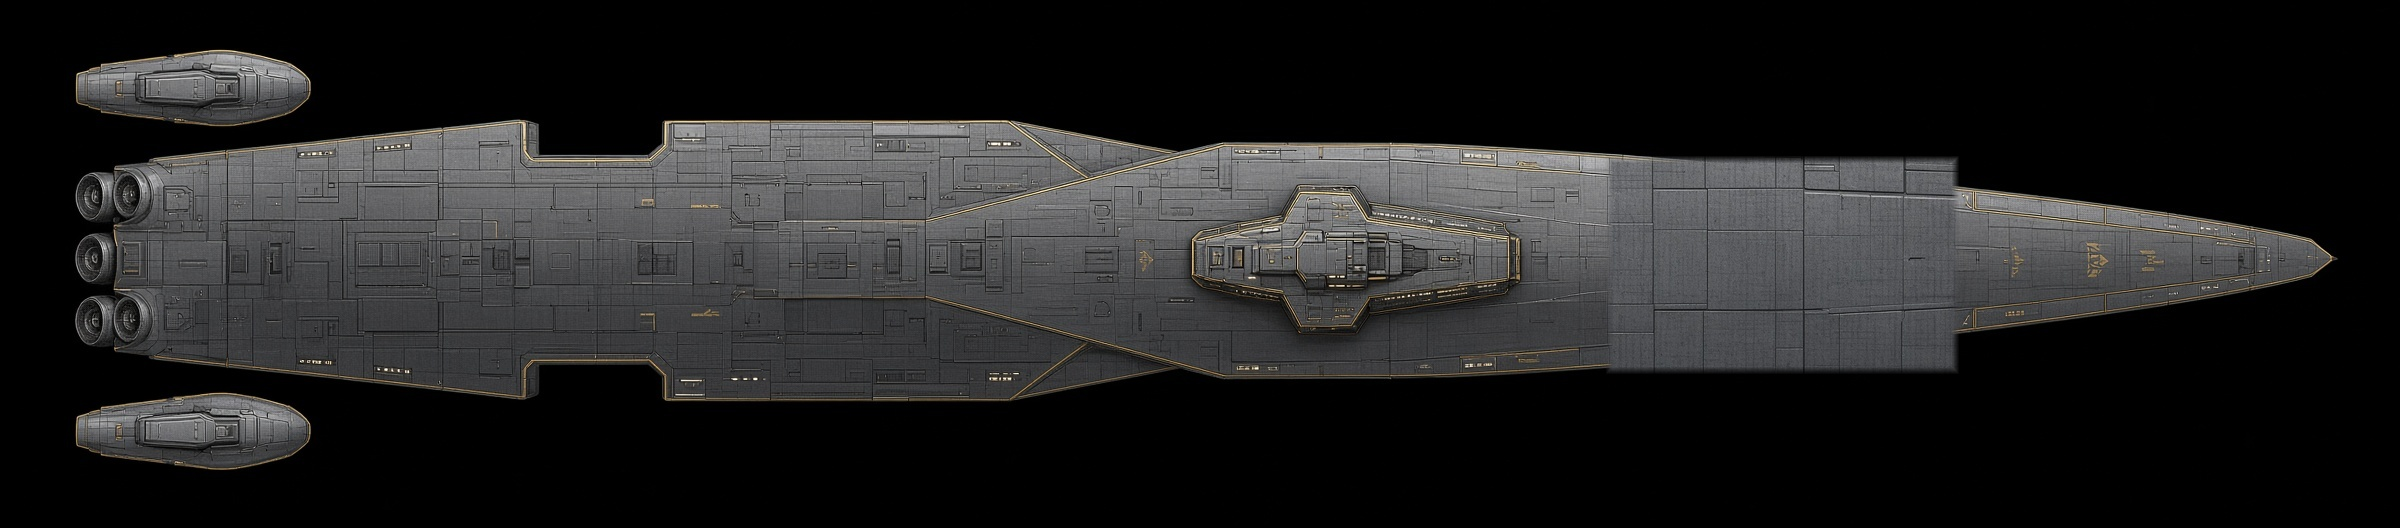
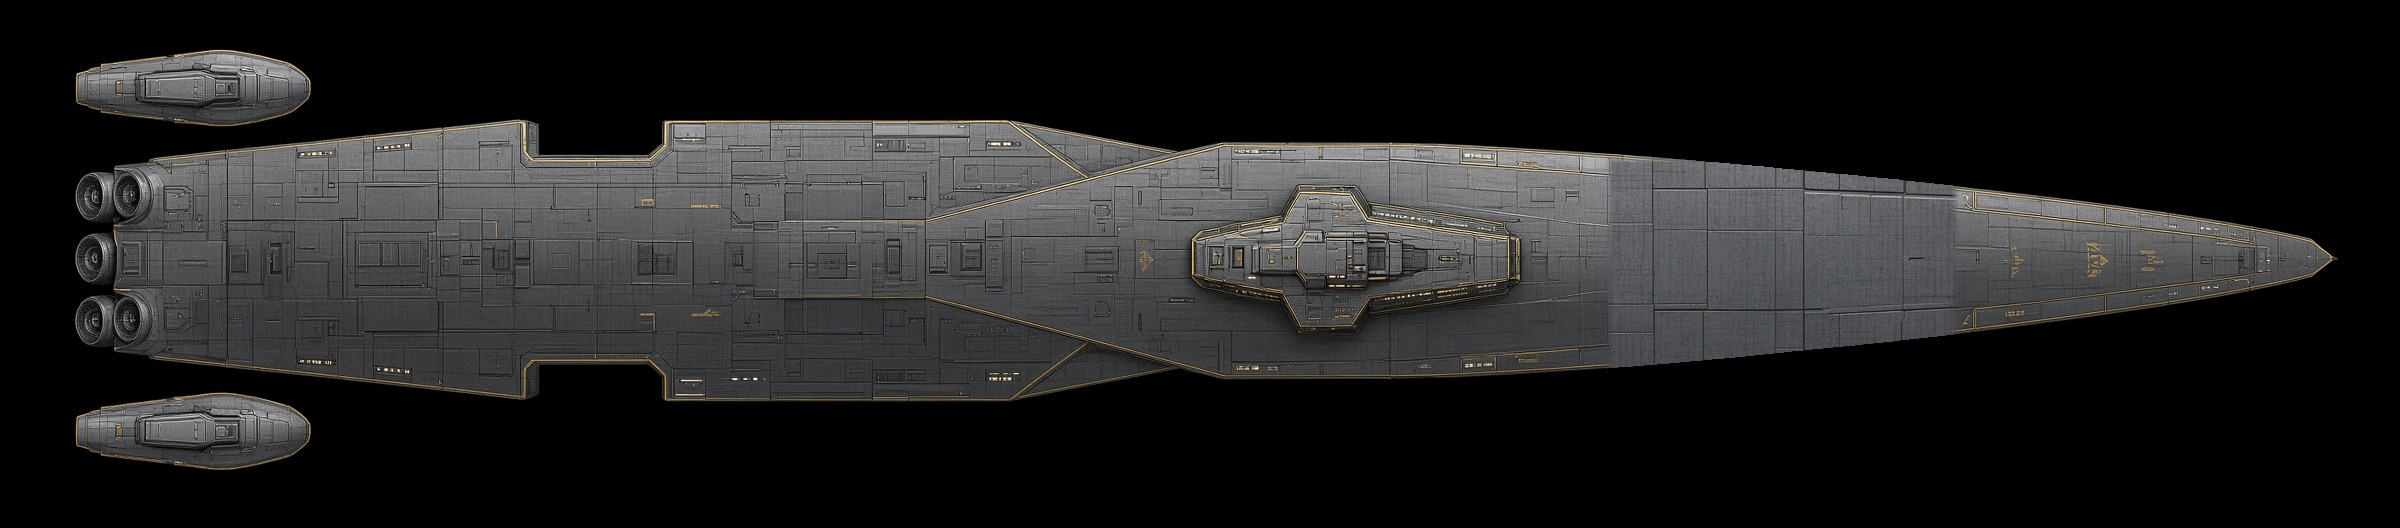
Clip deck/belly patches to the original plate silhouette; record SmiR approvals (loft-only hull, colour-free templates)
- top.jpg / belly.jpg: patch pixels only inside the original filled outline (first patch widened the
  plan by up to ~30 px per side over u 0.68-0.83, changing beamPort/beamStbd; gate does not check beams).
- hard-objects.md, decisions-log, METHOD.md: APPROVED 2026-10-03 hull = lofted measured cross-sections only;
  colour-free templates in repo, exact prompts local. Remaining QC issues listed.

Changed region(s): [[0.6562, 0.6364, 0.8125, 0.7273], [0.6875, 0.2727, 0.8125, 0.3636]]

diff --git a/docs/METHOD/hard-objects.md b/docs/METHOD/hard-objects.md
@@ -9,6 +9,10 @@ The plates are the measure and the unlit skin of one lofted volume. A normal is 
 uses (roof, belly, port, starboard) and to flip the quad outward. There is no second shell pushed out along the normal.
 Do not add one.
 
+**Approved by SmiR 2026-10-03** (these two points are APPROVED; the recipe as a whole stays IN TEST):
+1. The hull is **lofted measured cross-sections only** — no offset shell, no other hull generator.
+2. **Colour-free templates in the repo, exact Imagine prompts only in the untracked local file** (section 0).
+
 ## 0. What you are allowed to change
 
 Build only the frigate. Do not edit the capital ship, the corvette, the flight, or Bolt.
@@ -418,10 +422,10 @@ Fixed in this pass (still **IN TEST** until SmiR checks them on the phone):
 1. **Hangar, see-through.** The port mouth is still a hole. Behind it is a bay: floor, ceiling, fore wall, aft wall, and a smaller far bulkhead, skinned with crops of `hangar.jpg`. There is no face across the mouth and no typed colour. The starboard skin stays closed, so you see into the bay, not out the other side.
 2. **Stretched add-on faces.** Top and bottom faces of a prism span a band of the side image (section 7), not one repeated row. Caps still use the front content box.
 3. **Pylons and the ventral gap.** The strut's long axis is the gap (`rotation.x = π/2` on local Y). The short axes are clamped to 2.05–3.4 so the strut is visible and not the old giant slab. The ventral turret's highest point after `rotation.x = π` is set to the belly surface minus 0.45.
-4. **Painted deck turret and painted belly bells.** Those pixels are covered by Imagine patches taken from deck and belly plating (no code colour). The 3D dorsal turret and the 3D bells stay. The hull silhouette was not moved; the measure gate still passes.
+4. **Painted deck turret and painted belly bells.** Those pixels are covered by Imagine patches taken from deck and belly plating (no code colour). The 3D dorsal turret and the 3D bells stay. The patches are clipped to the **original filled silhouette** of `top.jpg` / `belly.jpg` (merge review 2026-10-03: the first patch stuck out of the plan outline by up to ~30 px per side over u ≈ 0.68–0.83, which widened `beamPort` / `beamStbd` there; the gate does not check beams). Column extents now match the original plates within 1 px. A plate patch must never move the outline.
 5. **Backdrop.** The turntable does not clear to a typed colour and does not build a sky cube. `scene.background` is the single Imagine plate `backdrop.jpg`. The flight sky was not edited.
 
-Proof clip, not a phone shot: `tools/hard-objects/qc/howl-fixes.mp4`. Twenty seconds of orbit, then close-ups of the bay, the pylon, the ventral turret, the deck, and the belly.
+Proof clip, not a phone shot: `tools/hard-objects/qc/howl-fixes.mp4`. Twenty seconds of orbit, then close-ups of the bay, the pylon, the ventral turret, the deck, and the belly. The clip was rendered **before** the patch clip above, so its forward hull is slightly too wide in plan.
 
 Still open:
 
@@ -429,6 +433,9 @@ Still open:
 - **Stern plate still paints bells**, and `top.jpg` still paints the nacelles, while the mesh also builds those parts. Not part of the deck-turret / belly-bell fix.
 - **Patch seams.** The deck and belly repairs are rectangular Imagine patches. A seam can show. That is an accepted Imagine-native defect. Do not paint over it with a code colour.
 - **Pylon cross-section** is clamped, so the thin strut image is wider than its plate. That is the visibility fix, not a new slab. Do not go back to a uniform scale.
+- **Streaks on add-on parts** (merge review, QC clip): the bridge tower top and the pylon / nacelle blocks still show smeared, stretched texture on some faces. The band fix helped the top/bottom faces only.
+- **Bay aft edge**: a thin dark strip shows between the port rim and the aft wall. You see into the bay, not out the starboard side.
+- **Backdrop magnification**: `backdrop.jpg` is 1792×1008 used as `scene.background`, so on a portrait phone it is stretched to the canvas (aspect distorted, magnification > 1). Needs a larger / portrait plate or a cover crop before phone QC under law 65.
 
 ## 12. Run the gate
 

diff --git a/docs/METHOD.md b/docs/METHOD.md
@@ -37,7 +37,7 @@ Status words: **APPROVED** = build it this way. **IN TEST** = candidate, pending
 | **Living elements** (stars, dust, vapor, lights, glow) | **Keyed seamless-looping Imagine video layers** (first = last frame or ping-pong; never hard-restart). ≤ 4 decoding videos incl. Bolt. | 2026-09-29 |
 | **Organic objects** (rocks, trees) | **8-view Imagine silhouette carving** (8 views every 45°, one sharp V0 + silhouette lock) → `tools/objsheet` → `tools/walkaround/build.py`. Natural, irregular, sharp silhouettes; **never balls / blobs / capsules**. Placement by simplex/code = placement only, never drawing. | 2026-10-01/02 |
 | **Hard objects** (ships, gates, wrecks) | **Real 3D the player can walk around.** Flat angle-switching impostors are rejected as the main solution. | 2026-10-02 |
-| | **IN TEST — pending validation** (frigate test by SmiR 2026-10-03): shapes **measured from Imagine images** (side, top, cross-sections, plates); sections **lofted** into the hull; left/right read separately; holes kept; generic part builder; **one unlit Imagine skin per part**; mid-grey readable skins. Measure images come from Imagine, never drawn by code. The loft is the volume — plates are not a second shell offset along the normal. Recipe: [`METHOD/hard-objects.md`](METHOD/hard-objects.md) (Howl frigate, gate `python3 tools/hard-objects/rebuild.py`). **Fixed in the mesh, still awaiting phone QC:** see-through port bay with Imagine inner walls; prism faces no longer one repeated row; visible pylons and the ventral turret sat on the hull; deck turret and belly bells no longer painted under the real parts; turntable backdrop is one Imagine plate, not a cube and not a typed clear. **Still open:** Bolt must stay the filmed wolf, not a carved blob (not drawn by this folder). Law 59 amendment waits for phone validation. | 2026-10-03 |
+| | **IN TEST — pending validation** (frigate test by SmiR 2026-10-03): shapes **measured from Imagine images** (side, top, cross-sections, plates); sections **lofted** into the hull; left/right read separately; holes kept; generic part builder; **one unlit Imagine skin per part**; mid-grey readable skins. Measure images come from Imagine, never drawn by code. The loft is the volume — plates are not a second shell offset along the normal. Recipe: [`METHOD/hard-objects.md`](METHOD/hard-objects.md) (Howl frigate, gate `python3 tools/hard-objects/rebuild.py`). **Fixed in the mesh, still awaiting phone QC:** see-through port bay with Imagine inner walls; prism faces no longer one repeated row; visible pylons and the ventral turret sat on the hull; deck turret and belly bells no longer painted under the real parts; turntable backdrop is one Imagine plate, not a cube and not a typed clear. **Still open:** Bolt must stay the filmed wolf, not a carved blob (not drawn by this folder); patch seams, streaks on add-on parts, backdrop stretch on portrait (recipe section 11). **APPROVED parts (SmiR 2026-10-03):** hull = lofted measured cross-sections only; colour-free templates in the repo, exact prompts local. Law 59 amendment waits for phone validation. | 2026-10-03 |
 | **Zones / biomes** | **3 biomes:** A *The Howling Eclipse* (ship wreck, Eclipse Gate) · B *Ember Mesa* · C *Cascade Verdance*. Each a **large natural organic open zone** (≥ 5× the retired circle, irregular footprint, nooks, natural soft boundaries, **no circles / rings**), joined by **paths with a distance-based fog/grade blend**. Kits: [`biome/kits/`](../biome/kits/README.md). | 2026-10-02 |
 | | Ship = **lore / POI, not a vehicle**. Bolt sprints through space powered by the **Lightning Core**. | 2026-10-02 |
 | | **PARKED** narrative frame: each biome is a **Frontier Shard** woken by Bolt's permanent EMP wave (decrees #031, #063, #064). Lore never changes the visual laws. | 2026-10-02 |

diff --git a/docs/METHOD/decisions-log.md b/docs/METHOD/decisions-log.md
@@ -31,7 +31,8 @@ a change is a new row that cites the old one. Times are Paris.
 | 2026-10-03 10:00 | Biome **names** allowed in tracked repo files; palettes and Imagine prompts stay out (resolves contradiction 1; hard law rail 6 amended in repo docs 62 / 64 and local `hard-laws.inc`, spec rail 6, tool-loop rule 6). | APPROVED | SmiR 2026-10-03 |
 | 2026-10-03 | Newer always wins: older laws/docs amended to METHOD.md (contradictions 2–6, 9–11); stop rule = 2 everywhere; sky = 8 × 60° slices; GPU tint only as the law 67 light grade. | APPROVED | follow-up docs PR |
 | 2026-10-03 | Frigate (hard-object) method added **IN TEST**: recipe [`hard-objects.md`](hard-objects.md) (Howl frigate: reader, measured-section loft, parts, one unlit Imagine skin per part, 20 locked Imagine plates; gate `python3 tools/hard-objects/rebuild.py`). The loft is the volume; plates are not a normal-offset shell (corrects the wording of the 2026-10-03 hard-objects row, does not approve it). Six open QC issues listed in the recipe section 11. `.PROMPT.txt` files keep only colour-free templates; palettes / prompt wording stay in the untracked local prompts file. Skins sample per law 65. **Law 59 amendment (contradiction 12) waits until the fixes are validated by SmiR on the phone.** | IN TEST — pending validation | SmiR 2026-10-03, PR #158 |
-| 2026-10-03 | Frigate QC fixes, still **IN TEST**: port bay is an open volume skinned with crops of `hangar.jpg`; prism top/bottom faces sample a band of the side plate; pylons span the gap with a clamped cross-section; ventral turret meets the belly; Imagine patches cover the painted deck turret and the painted belly bells; turntable background is one Imagine plate (`backdrop.jpg`), not a cube and not a typed clear. Flight sky, capital, corvette, and Bolt are untouched. Bolt-as-carved-blob stays open. Law 59 still waits for phone validation. | IN TEST — pending phone validation | this PR |
+| 2026-10-03 | Frigate QC fixes, still **IN TEST**: port bay is an open volume skinned with crops of `hangar.jpg`; prism top/bottom faces sample a band of the side plate; pylons span the gap with a clamped cross-section; ventral turret meets the belly; Imagine patches cover the painted deck turret and the painted belly bells; turntable background is one Imagine plate (`backdrop.jpg`), not a cube and not a typed clear. Flight sky, capital, corvette, and Bolt are untouched. Bolt-as-carved-blob stays open. Patches clipped to the original plate silhouette at merge review (the first version widened the plan outline). Law 59 still waits for phone validation. | IN TEST — pending phone validation | PR #160 |
+| 2026-10-03 | Hard objects: the hull is **lofted measured cross-sections only** (no offset shell, no other hull generator); **colour-free templates in the repo, exact Imagine prompts only in untracked local files**. The rest of the frigate recipe stays IN TEST. | APPROVED | SmiR 2026-10-03, PR #160 |
 
 ## Contradictions found (2026-10-03 sweep)
 
